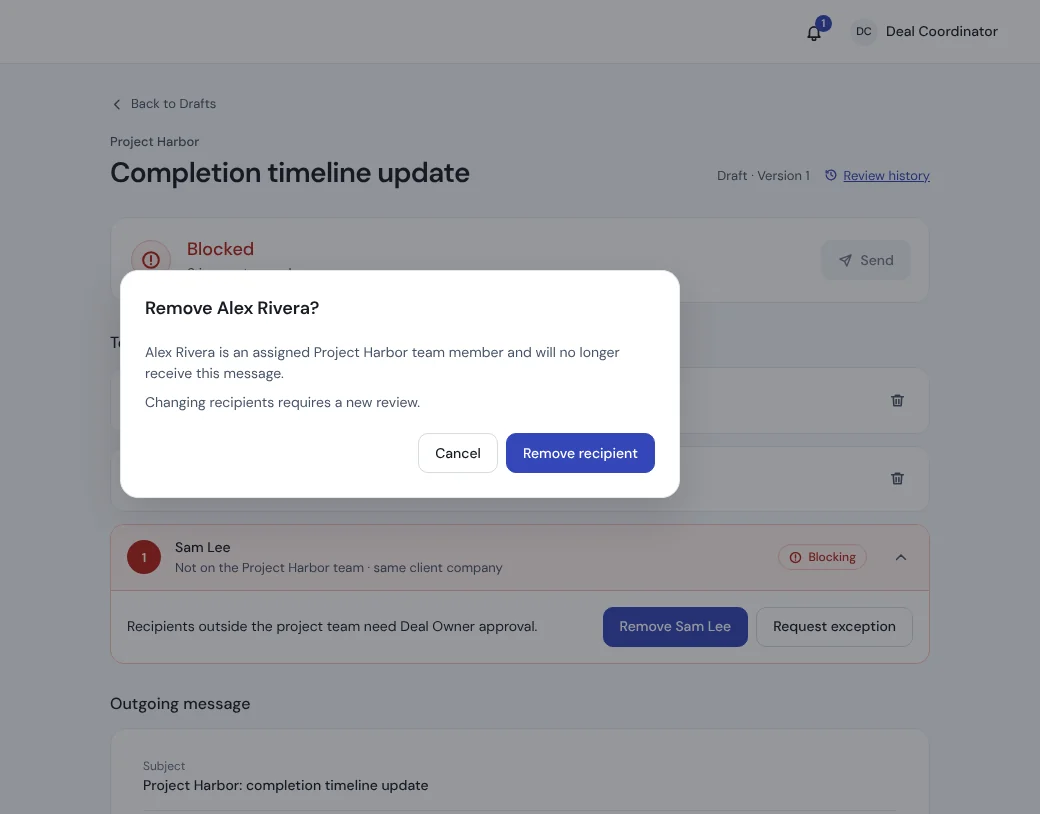
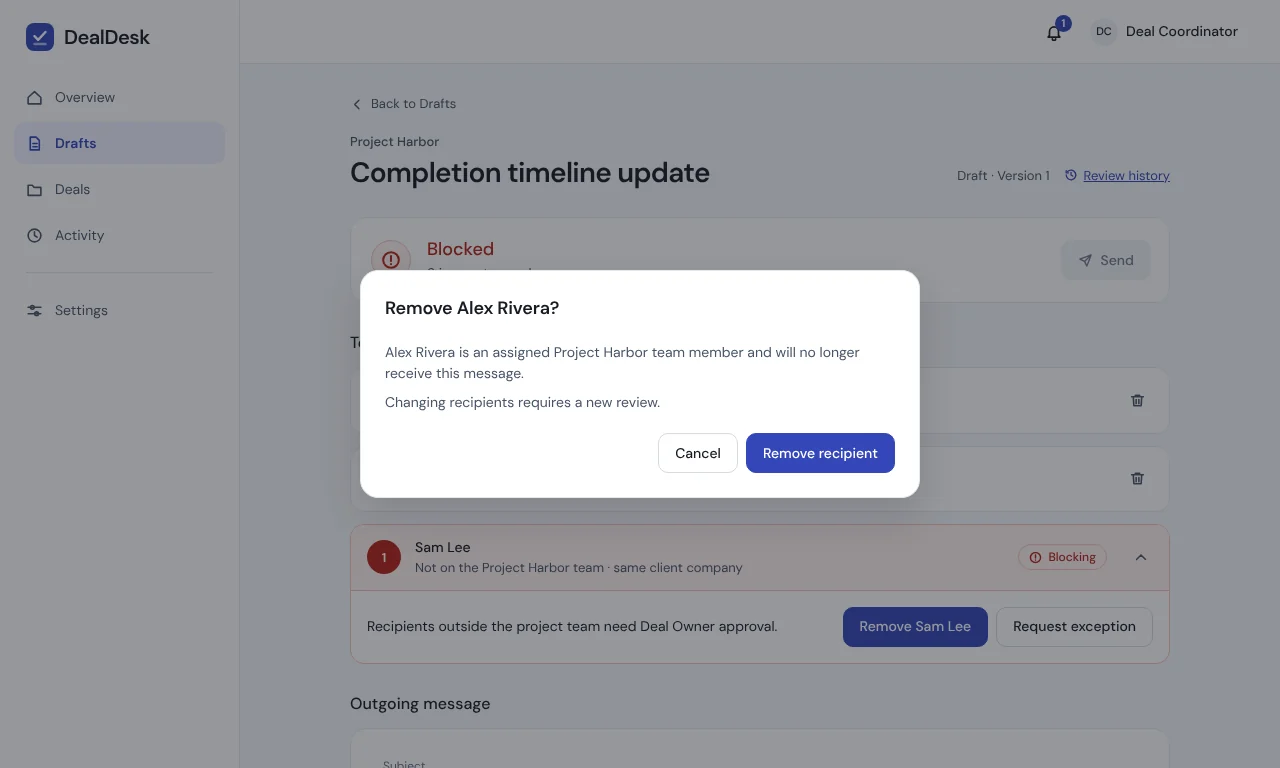
Process Journey: recapture modal screenshots with the dialog centred
The four modal screenshots (revise wording opened and edited, remove
recipient confirmation, request exception) had the sidebar cropped off,
which made the dialog look shifted left and high. They are now captured
at full width and cropped evenly, so the dialog sits in the middle of
each image, as it does in the running prototype.

Images and their size map only. No application code changed.

Claude-Session: https://claude.ai/code/session_01MoRrbofVezg8Kdcbs9Z9gd

diff --git a/src/pages/process/shots.ts b/src/pages/process/shots.ts
@@ -17,12 +17,12 @@ export const SHOT_SIZES: Record<string, [number, number]> = {
     1168
   ],
   "j4": [
-    1040,
-    814
+    1280,
+    767
   ],
   "j6": [
-    1040,
-    814
+    1280,
+    767
   ],
   "j7": [
     1040,
@@ -57,16 +57,16 @@ export const SHOT_SIZES: Record<string, [number, number]> = {
     196
   ],
   "r1": [
-    1040,
-    814
+    1280,
+    768
   ],
   "r2": [
     1280,
     1241
   ],
   "x1": [
-    1040,
-    814
+    1280,
+    768
   ],
   "x11": [
     1040,
